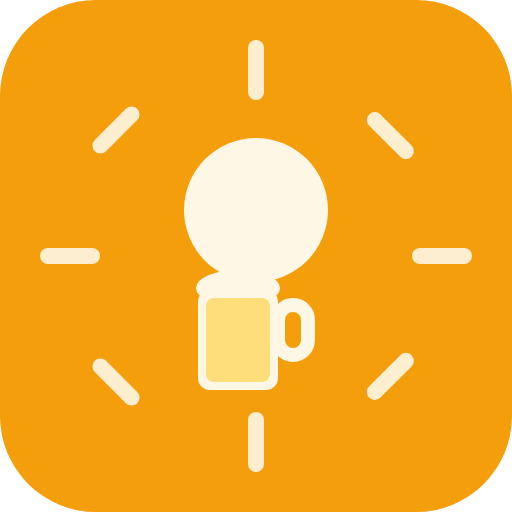
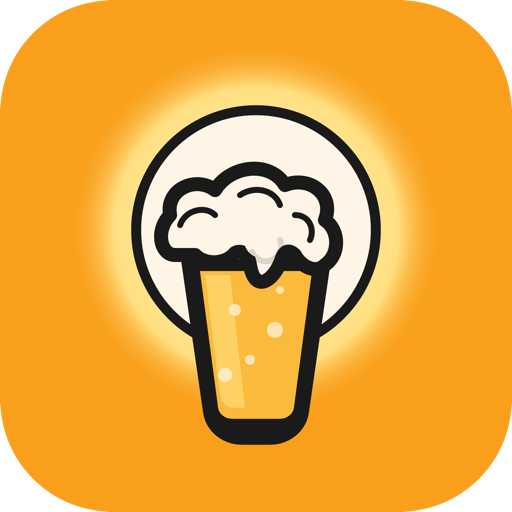
Add files via upload
shadows and streets

diff --git a/app.js b/app.js
@@ -13,6 +13,7 @@ const CFG = {
   overcastThreshold: 75,
   stockholmFallback: [18.0686, 59.3293],
   weatherRefreshMs: 30 * 60 * 1000,
+  streetSideSearchM: 35,
 };
 
 // WMO weather code descriptions
@@ -641,6 +642,9 @@ function calcShadows(sun) {
   const mPerLon = 111000 * Math.cos(CFG.center[1] * Math.PI / 180);
   const tanAlt = Math.tan(sun.altitude);
 
+  // Pre-compute degree radius for street-side building search
+  const ssRadDeg = CFG.streetSideSearchM / 111000;
+
   barsData.forEach(bar => {
     const lat = bar.Latitude;
     const lon = bar.Longitude;
@@ -667,10 +671,22 @@ function calcShadows(sun) {
     // Capture the maximum height within the filtered ray bounding box for predictive short-circuiting
     const maxBldgHeight = filteredBldgs.reduce((max, b) => b.h > max ? b.h : max, 0);
 
-    bar._inShadow = castRayOptimized(
+    let inShadow = castRayOptimized(
       lat, lon, dx, dy, steps, stepSize, mPerLat, mPerLon,
       tanAlt, filteredBldgs, homeBldg, maxBldgHeight
     );
+
+    // Additive street-side factor: catches bars whose backing building is too close to appear
+    // in the forward ray path (bar coordinates sit on street, not inside the building)
+    if (!inShadow) {
+      const nearbyBldgs = buildingFeatures.filter(b =>
+        b.maxLng >= lon - ssRadDeg && b.minLng <= lon + ssRadDeg &&
+        b.maxLat >= lat - ssRadDeg && b.minLat <= lat + ssRadDeg
+      );
+      inShadow = calcStreetSideFactor(lat, lon, sun, nearbyBldgs);
+    }
+
+    bar._inShadow = inShadow;
   });
 }
 
@@ -709,6 +725,79 @@ function castRayOptimized(lat, lon, dx, dy, steps, stepSize, mPerLat, mPerLon, t
       }
     }
   }
+  return false;
+}
+
+// Street-side shadow factor: returns true when the nearest building edge is generally
+// in the sun's direction, meaning the bar faces away from the sun (shadow side of street).
+// Runs only as a fallback after ray-casting returns sunlit.
+function calcStreetSideFactor(barLat, barLng, sun, nearbyBldgs) {
+  if (!nearbyBldgs.length) return false;
+
+  const sunDx = -Math.sin(sun.azimuth);  // east-west unit component (positive = east)
+  const sunDy = -Math.cos(sun.azimuth);  // north-south unit component (positive = north)
+  const tanSunAlt = Math.tan(sun.altitude);
+
+  const mPerLon = 111000 * Math.cos(barLat * Math.PI / 180);
+  const mPerLat = 111000;
+  const searchR2 = CFG.streetSideSearchM * CFG.streetSideSearchM;
+
+  let minDist2 = Infinity;
+  let backDx = 0, backDy = 0;  // normalized metric unit vector: bar → nearest edge point
+  let nearestSunDirDist = Infinity, nearestSunDirH = 0;  // nearest edge in sun's forward half-plane
+
+  for (const bldg of nearbyBldgs) {
+    for (const ring of bldg.rings) {
+      const n = ring.length - 1;
+      for (let i = 0; i < n; i++) {
+        const [x1, y1] = ring[i];
+        const [x2, y2] = ring[i + 1];
+
+        const ex = (x2 - x1) * mPerLon;
+        const ey = (y2 - y1) * mPerLat;
+        const bx = (barLng - x1) * mPerLon;
+        const by = (barLat - y1) * mPerLat;
+
+        const eLen2 = ex * ex + ey * ey;
+        const t = eLen2 > 0 ? Math.max(0, Math.min(1, (bx * ex + by * ey) / eLen2)) : 0;
+
+        const cx = x1 + t * (x2 - x1);
+        const cy = y1 + t * (y2 - y1);
+
+        const dxM = (cx - barLng) * mPerLon;
+        const dyM = (cy - barLat) * mPerLat;
+        const d2 = dxM * dxM + dyM * dyM;
+
+        if (d2 < searchR2 && d2 > 0) {
+          const dist = Math.sqrt(d2);
+          const eDx = dxM / dist;
+          const eDy = dyM / dist;
+
+          if (d2 < minDist2) {
+            minDist2 = d2;
+            backDx = eDx;
+            backDy = eDy;
+          }
+
+          // Track nearest edge in sun's forward half-plane for elevation check
+          const dot = sunDx * eDx + sunDy * eDy;
+          if (dot > 0 && dist < nearestSunDirDist) {
+            nearestSunDirDist = dist;
+            nearestSunDirH = bldg.h;
+          }
+        }
+      }
+    }
+  }
+
+  if (minDist2 === Infinity) return false;
+
+  // Check 1 (original): nearest backing building is toward the sun (directional check)
+  if ((sunDx * backDx + sunDy * backDy) > 0.30) return true;
+
+  // Check 2 (new): nearest sun-side building is tall enough to geometrically block the sun
+  if (nearestSunDirDist < Infinity && nearestSunDirH / nearestSunDirDist > tanSunAlt) return true;
+
   return false;
 }
 
@@ -842,11 +931,22 @@ function fmtTime(d) {
 // ============================================================
 function initDragHandle(panel, handle) {
   let startY = 0, startH = 0, dragging = false;
+  const COLLAPSED_H = 130;
+  const EXPANDED_H  = () => Math.round(window.innerHeight * 0.82);
+  const SNAP_THRESHOLD = 60; // px of drag needed to commit to a direction
+
+  const snapTo = expanded => {
+    panel.style.transition = 'height 0.22s cubic-bezier(0.32, 0.72, 0, 1)';
+    panel.style.height = expanded ? `${EXPANDED_H()}px` : `${COLLAPSED_H}px`;
+    panel.classList.toggle('expanded', expanded);
+    panel.addEventListener('transitionend', () => { panel.style.transition = ''; }, { once: true });
+  };
 
   const onStart = e => {
     dragging = true;
     startY = e.touches ? e.touches[0].clientY : e.clientY;
     startH = panel.offsetHeight;
+    panel.style.transition = 'none';
     document.addEventListener('mousemove', onMove);
     document.addEventListener('touchmove', onMove, { passive: false });
     document.addEventListener('mouseup', onEnd);
@@ -857,17 +957,24 @@ function initDragHandle(panel, handle) {
     if (!dragging) return;
     if (e.cancelable) e.preventDefault();
     const y = e.touches ? e.touches[0].clientY : e.clientY;
-    const newH = Math.max(100, Math.min(window.innerHeight * 0.92, startH + (startY - y)));
+    const newH = Math.max(COLLAPSED_H, Math.min(window.innerHeight * 0.92, startH + (startY - y)));
     panel.style.height = `${newH}px`;
-    panel.classList.toggle('expanded', newH > 160);
   };
 
-  const onEnd = () => {
+  const onEnd = e => {
+    if (!dragging) return;
     dragging = false;
     document.removeEventListener('mousemove', onMove);
     document.removeEventListener('touchmove', onMove);
     document.removeEventListener('mouseup', onEnd);
     document.removeEventListener('touchend', onEnd);
+    const endY = e.changedTouches ? e.changedTouches[0].clientY : (e.clientY || startY);
+    const delta = startY - endY; // positive = dragged up
+    const currentH = panel.offsetHeight;
+    const wasExpanded = startH > COLLAPSED_H + 30;
+    // Snap up if dragged up enough, or already tall; snap down otherwise
+    const goExpanded = wasExpanded ? delta > -SNAP_THRESHOLD : delta > SNAP_THRESHOLD;
+    snapTo(goExpanded);
   };
 
   handle.addEventListener('mousedown', onStart);
@@ -912,7 +1019,7 @@ function renderBarsList() {
       : `${(bar._dist / 1000).toFixed(1)}km`;
 
     const card = document.createElement('div');
-    card.className = 'bar-card';
+    card.className = bar._inShadow === false ? 'bar-card sunny-card' : 'bar-card';
     card.dataset.lng = bar.Longitude;
     card.dataset.lat = bar.Latitude;
 